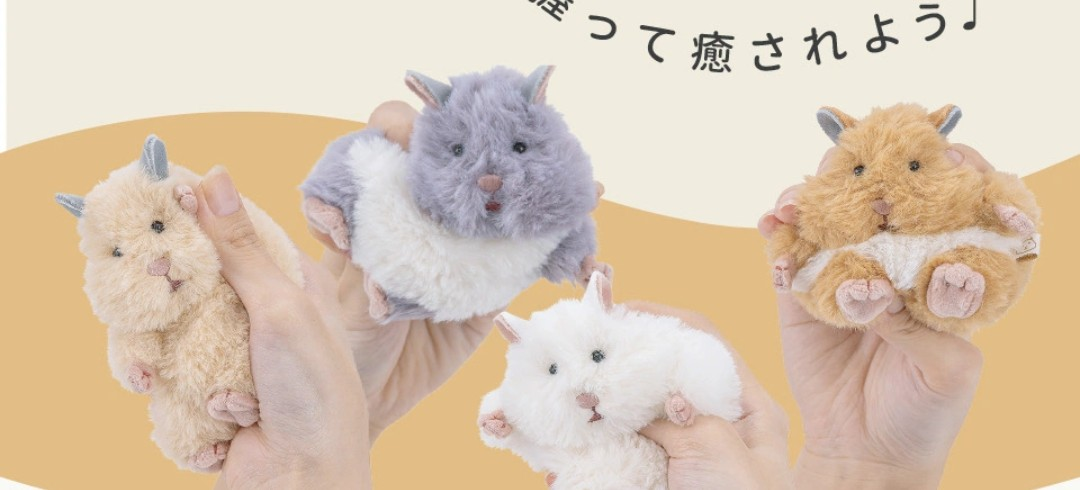
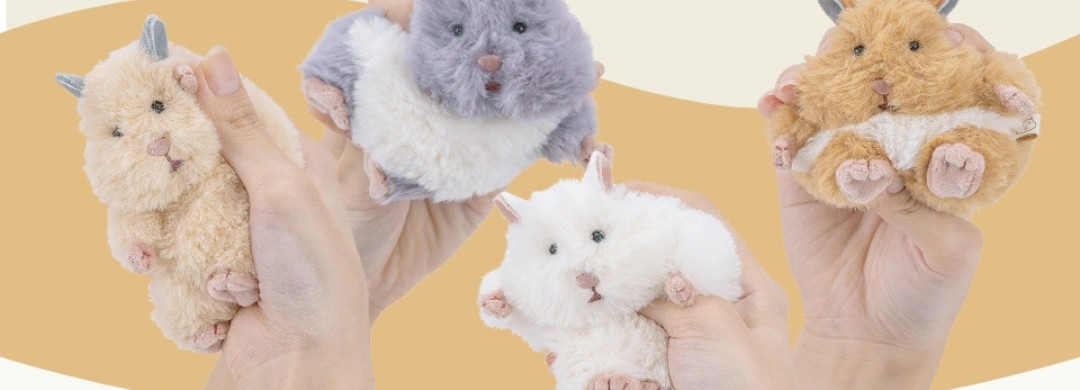
Fix overlaps: duplicate tagline and hero-covering sound button
- Re-crop hands4.jpg to exclude the baked-in "握って癒されよう♪" text so it no
  longer duplicates the styled tagline above the photo
- Gate the 🔊 sound button behind scroll (like buy/top) so it stops covering
  the "ごまきち" character on the hero
- Show the にぎにぎ counter on first tap instead of at load, keeping the hero clean

Claude-Session: https://claude.ai/code/session_015gWdDZpjaXs2bkk9XuxWeX

diff --git a/site/index.html b/site/index.html
@@ -226,7 +226,6 @@ section{padding:44px 22px;position:relative}
 .fab.show{opacity:1;transform:none;pointer-events:auto}
 .fab:hover{transform:translateY(-3px) scale(1.06)}
 .fab.buy{background:var(--orange);color:#fff;width:60px;height:60px;font-size:15px;font-weight:800;line-height:1.1;text-align:center;animation:pulse 2.6s ease-in-out infinite}
-.fab.sound{opacity:1;transform:none;pointer-events:auto}
 
 /* ---------- squish counter ---------- */
 .counter{position:fixed;bottom:24px;z-index:90;left:max(16px,calc((100vw - 600px)/2 + 16px));
@@ -485,7 +484,6 @@ section{padding:44px 22px;position:relative}
 // ---------- loader ----------
 addEventListener('load',()=>{
   setTimeout(()=>document.getElementById('loader').classList.add('gone'),650);
-  setTimeout(()=>{counter.classList.add('show')},1100);
 });
 
 // ---------- scroll reveal ----------
@@ -496,7 +494,7 @@ document.querySelectorAll('.reveal').forEach((el,i)=>{el.style.transitionDelay=(
 
 // ---------- nav progress + floating buttons ----------
 const prog=document.getElementById('prog');
-const topFab=document.getElementById('topFab'), buyFab=document.getElementById('buyFab');
+const topFab=document.getElementById('topFab'), buyFab=document.getElementById('buyFab'), soundFab=document.getElementById('soundBtn');
 addEventListener('scroll',()=>{
   const h=document.documentElement;
   const p=h.scrollTop/(h.scrollHeight-h.clientHeight)*100;
@@ -504,6 +502,7 @@ addEventListener('scroll',()=>{
   const past=scrollY>500;
   topFab.classList.toggle('show',past);
   buyFab.classList.toggle('show',past);
+  soundFab.classList.toggle('show',past);
 },{passive:true});
 topFab.addEventListener('click',()=>scrollTo({top:0,behavior:'smooth'}));
 
@@ -533,6 +532,7 @@ function pop(){ // light heart pop
 const counter=document.getElementById('counter'), cnum=document.getElementById('cnum');
 let count=parseInt(localStorage.getItem('hn_count')||'0',10); cnum.textContent=count;
 function bump(){count++;cnum.textContent=count;localStorage.setItem('hn_count',count);
+  counter.classList.add('show');
   counter.classList.remove('bump');void counter.offsetWidth;counter.classList.add('bump');}
 
 // ---------- tap a hero character -> squish + sound + hearts + count ----------
